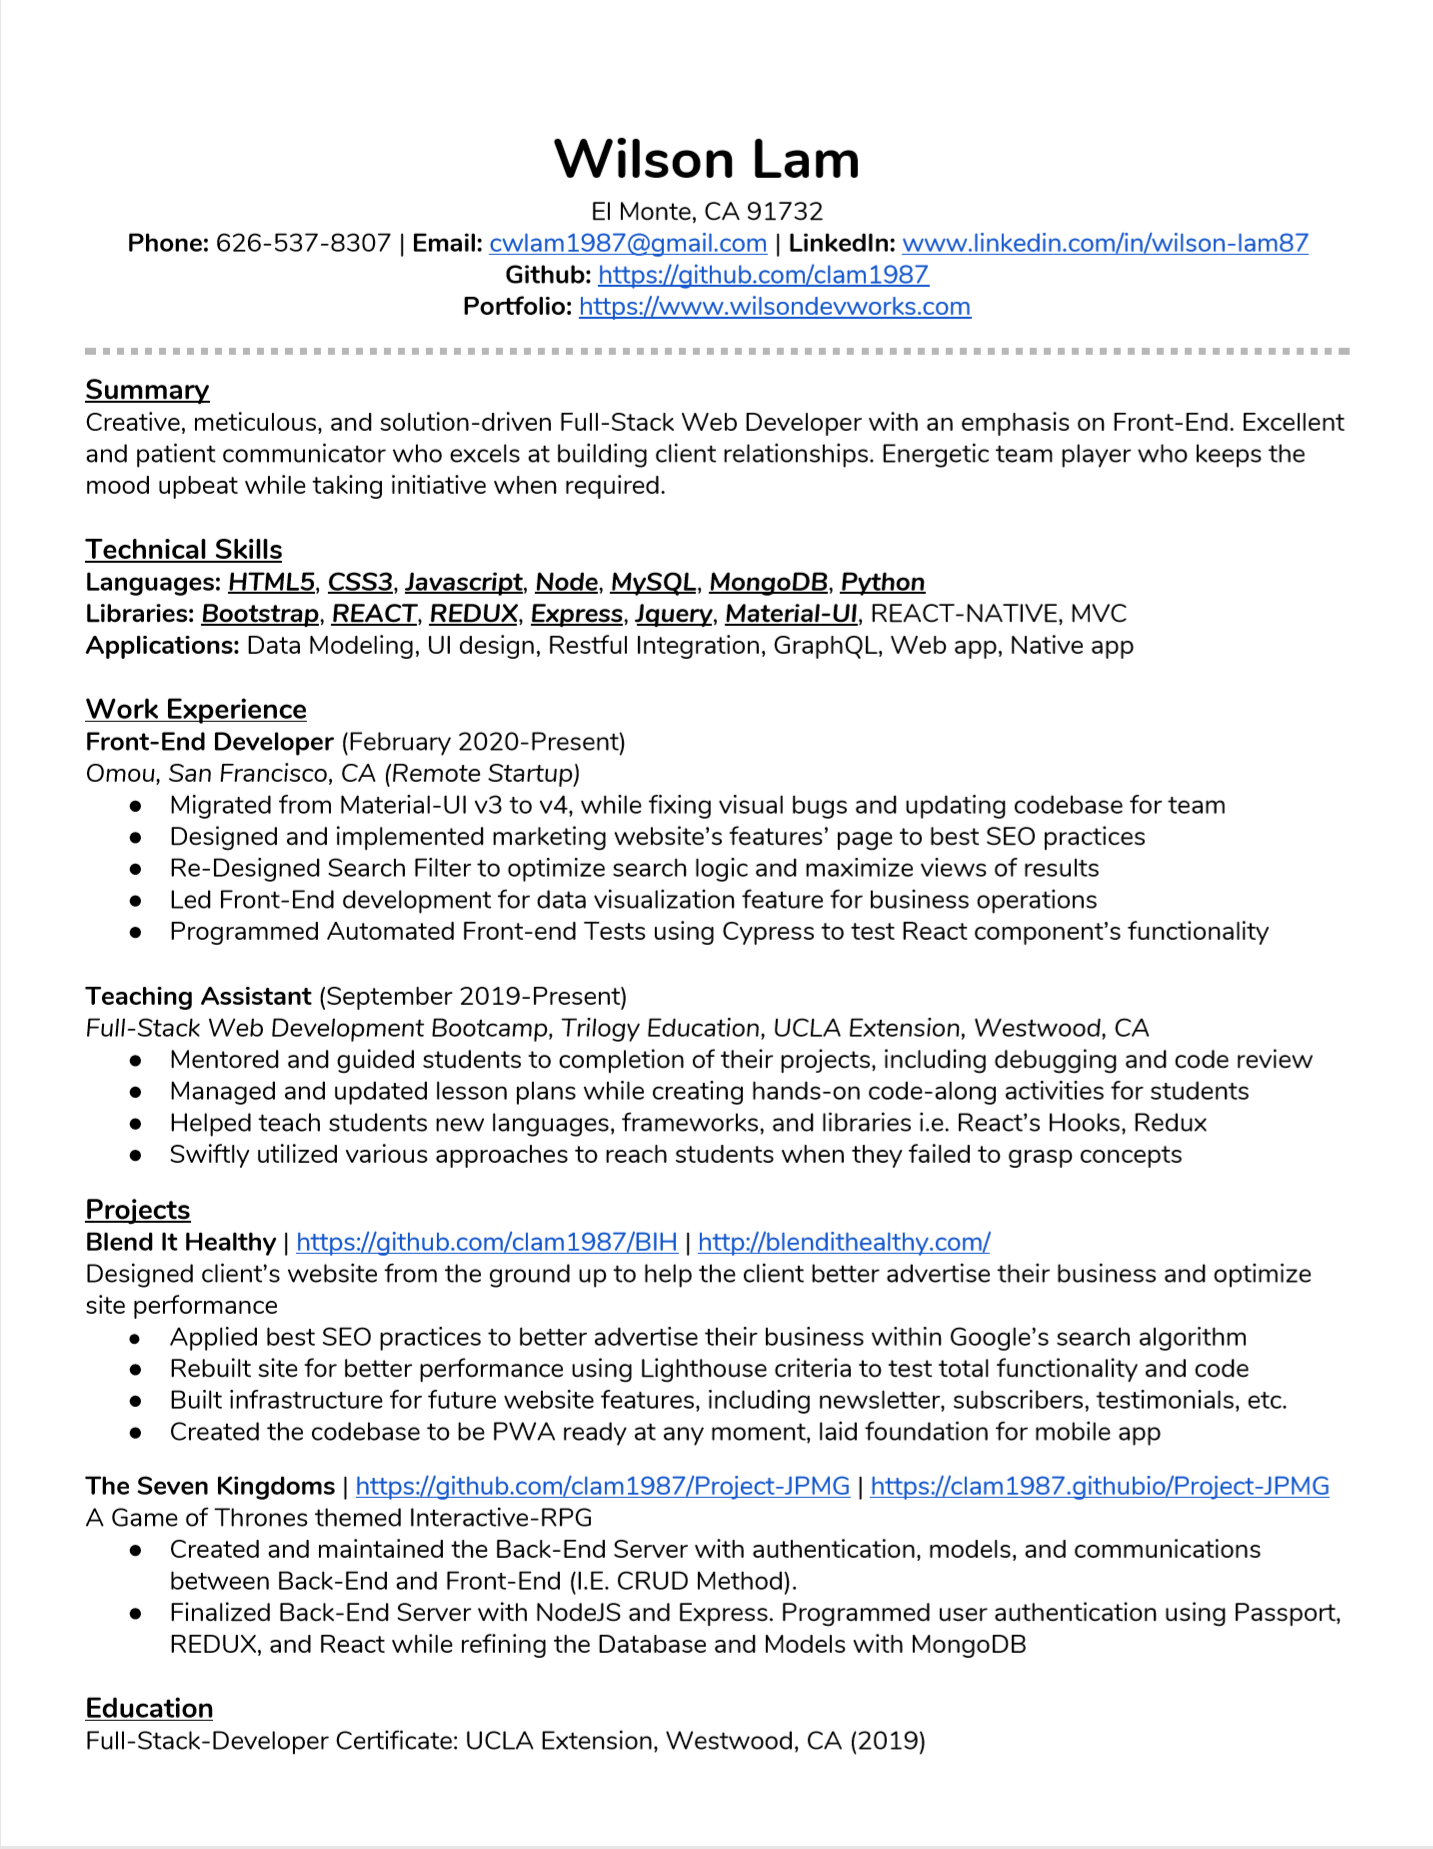
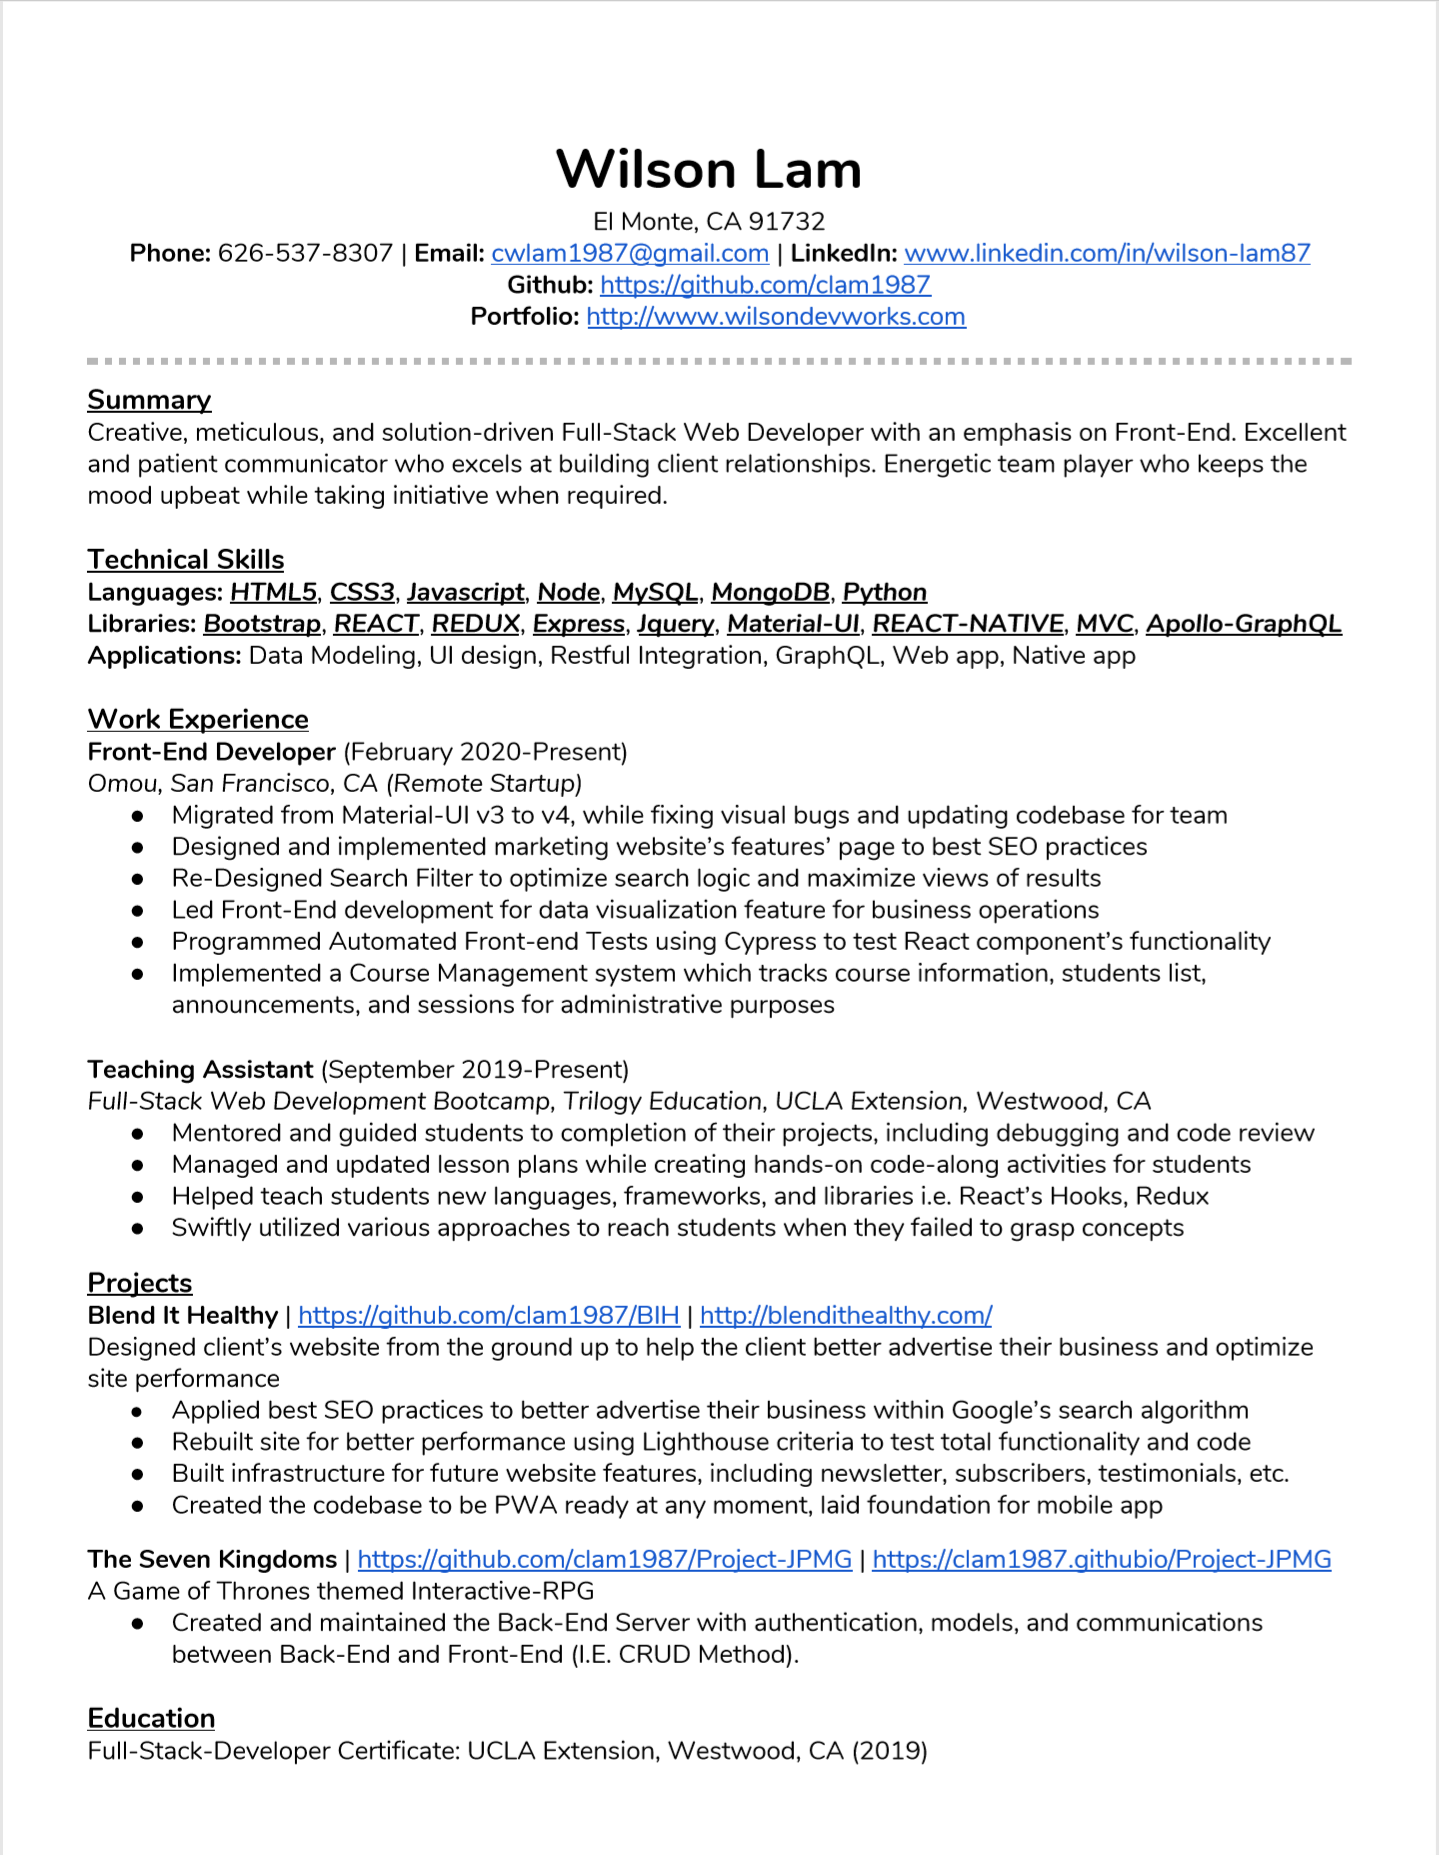
updated resume + projects

Changed region(s): [[0.0614, 0.0617, 0.9518, 0.9557], [0.0, 0.0, 1.0, 1.0]]

diff --git a/index.html b/index.html
@@ -310,6 +310,49 @@
         <div class="row">
           <div class="col-md-4">
             <div class="work-box">
+              <a href="./assets/images/course-management.png" data-lightbox="gallary-mf">
+                <div class="work-img">
+                  <img
+                    src="./assets/images/course-management.png"
+                    alt="course-management"
+                    class="img-fluid"
+                  />
+                </div>
+                <div class="work-content">
+                  <div class="row">
+                    <div class="col-sm-8">
+                      <h2 class="w-title">Omou</h2>
+                      <h2 class="g-title">
+                        <a
+                          class="github"
+                          href="#"
+                          >GitHub(Private)</a
+                        >
+                      </h2>
+                      <h2 class="l-title">
+                        <a
+                          class="live"
+                          href="https://www.omoulearning.com/login"
+                          >Deployed Site</a
+                        >
+                      </h2>
+                      <div class="w-more">
+                        <span class="w-ctegory">Web App</span> /
+                        <span class="w-date">February 19, 2020</span>
+                      </div>
+                    </div>
+                    <div class="col-sm-4">
+                      <div class="w-like">
+                        <span class="ion-ios-plus-outline"></span>
+                      </div>
+                    </div>
+                  </div>
+                </div>
+              </a>
+            </div>
+          </div>
+          <div class="col-md-4">
+            <div class="work-box">
               <a href="./assets/images/Admindashboard.png" data-lightbox="gallary-mf">
                 <div class="work-img">
                   <img
